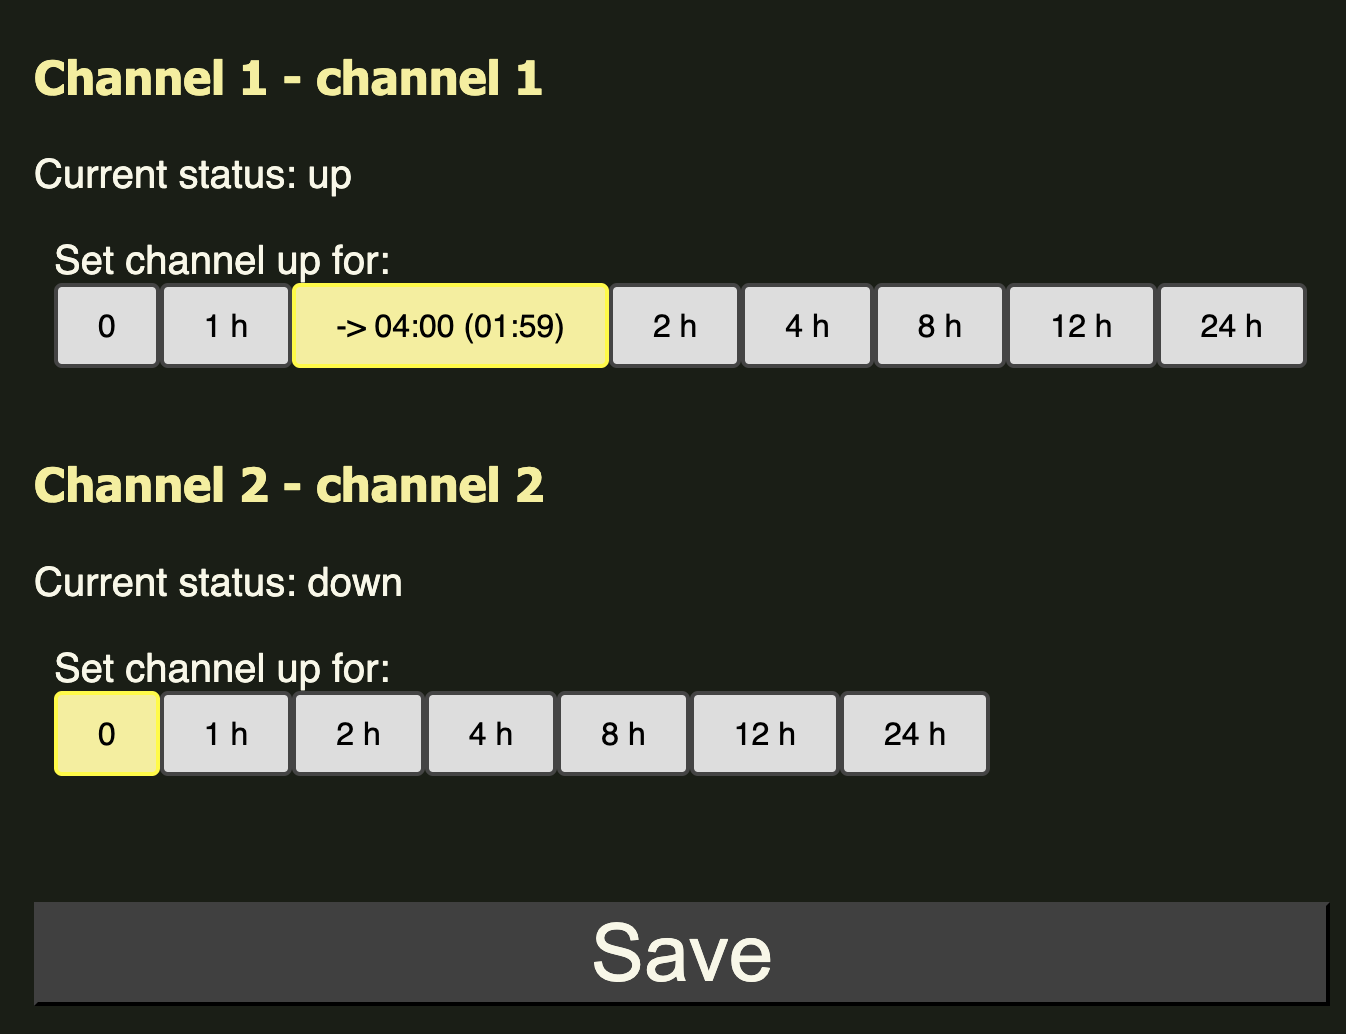
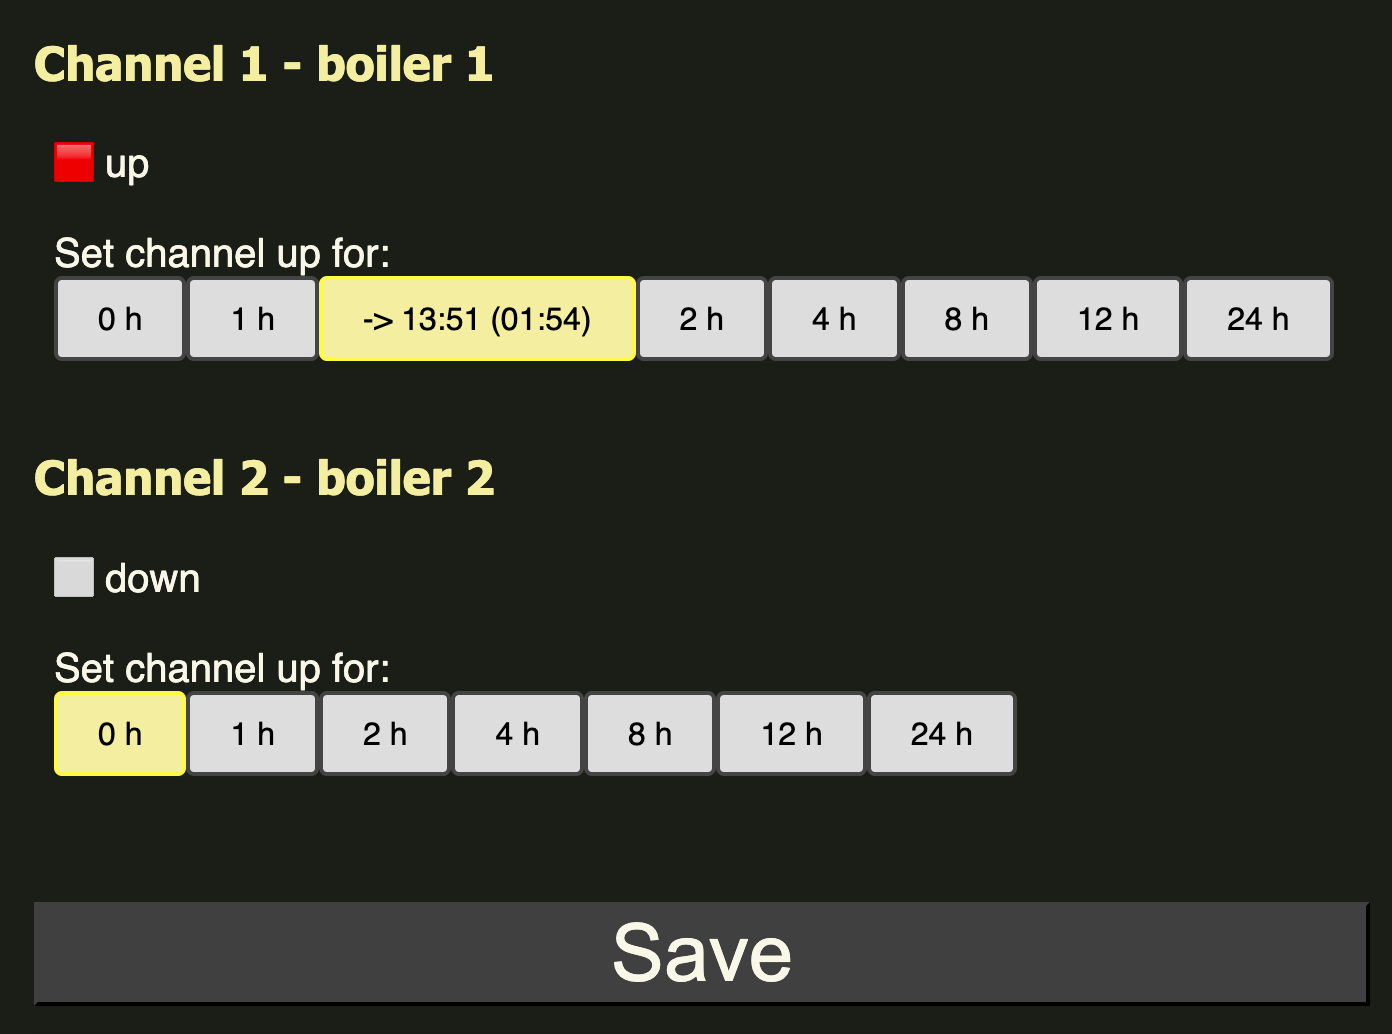
Tuning channel status view

diff --git a/data/admin_template.html b/data/admin_template.html
@@ -1,6 +1,7 @@
 <html>
 
 <head>
+    <meta charset="UTF-8">
     <title>Arska Node | Admin Dashboard</title>
     <link rel="stylesheet" type="text/css" href="style.css">
 </head>

diff --git a/data/view_template.html b/data/view_template.html
@@ -1,6 +1,7 @@
 <html>
 
 <head>
+    <meta charset="UTF-8">
     <title>Arska Node | Admin Dashboard</title>
     <link rel="stylesheet" type="text/css" href="style.css">
 </head>

diff --git a/data/style.css b/data/style.css
@@ -75,6 +75,7 @@ h3 {
 
 .fld {
     margin-top: 10px;
+    margin-left: 10px;
     clear: both;
 }
 

diff --git a/src/main.cpp b/src/main.cpp
@@ -1313,13 +1313,13 @@ void get_channel_status_header(char *out, int channel_idx, bool show_force_up)
   time(&now);
   char buff[200];
   char buff2[20];
-  //char buff3[40];
+  //char buff3[10];
   char buff4[20];
   tm tm_struct2;
   time_t from_now;
-  strcpy(buff2, s.ch[channel_idx].is_up ? "up" : "down");
+  strcpy(buff2, s.ch[channel_idx].is_up ? "🟥 up" : "⬜ down");
   if (s.ch[channel_idx].is_up != s.ch[channel_idx].wanna_be_up)
-    strcat(buff2, s.ch[channel_idx].wanna_be_up ? " (rising)" : "(dropping)");
+    strcat(buff2, s.ch[channel_idx].wanna_be_up ? " 🔺 rising" : "🔻 dropping");
 
   if (s.ch[channel_idx].force_up_until > now)
   {
@@ -1334,7 +1334,7 @@ void get_channel_status_header(char *out, int channel_idx, bool show_force_up)
     strcpy(buff4, "");
   }
 
-  snprintf(buff, 200, "<div class='secbr'><h3>Channel %d - %s</h3></div><div class='fld'><div>Current status: %s</div></div><!-- gpio %d -->", channel_idx + 1, s.ch[channel_idx].id_str, buff2,  s.ch[channel_idx].gpio);
+  snprintf(buff, 200, "<div class='secbr'><h3>Channel %d - %s</h3></div><div class='fld'><div>%s</div></div><!-- gpio %d -->", channel_idx + 1, s.ch[channel_idx].id_str, buff2,  s.ch[channel_idx].gpio);
   strcat(out, buff);
   Serial.printf("SHOW channel_idx: %d, forced: %s\n", channel_idx, buff4);
 
@@ -1822,7 +1822,7 @@ void bootInUpdateMode(AsyncWebServerRequest *request)
 {
   s.next_boot_ota_update = true;
   writeToEEPROM(); // save to non-volatile memory
-  request->send(200, "text/html", "<html><head><meta http-equiv='refresh' content='10; url=./update' /></head><body>wait...</body></html>");
+  request->send(200, "text/html", "<html><head><meta http-equiv='refresh' content='10; url=./update' /></head><body>wait for update mode...</body></html>");
   return;
 }
 
